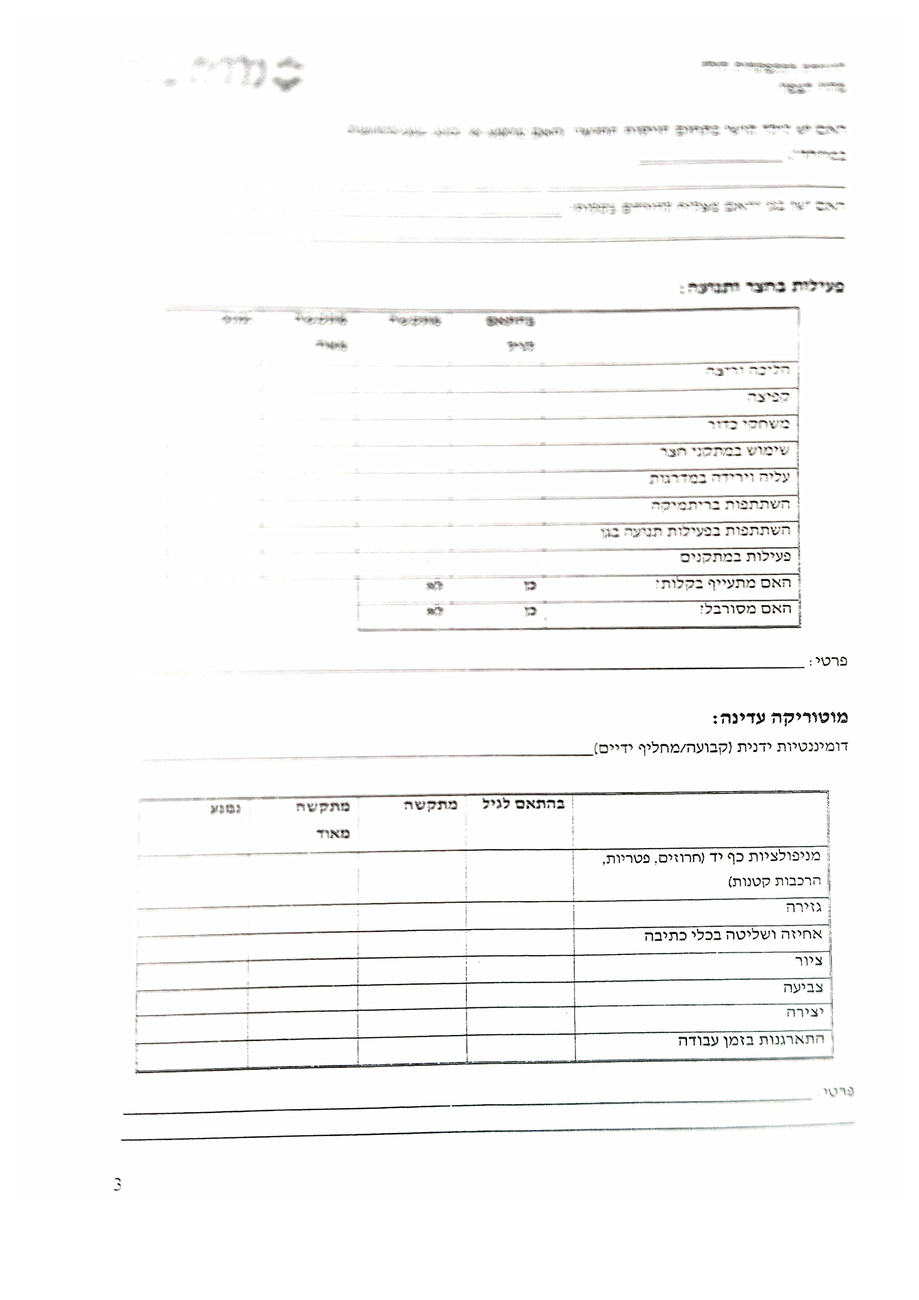
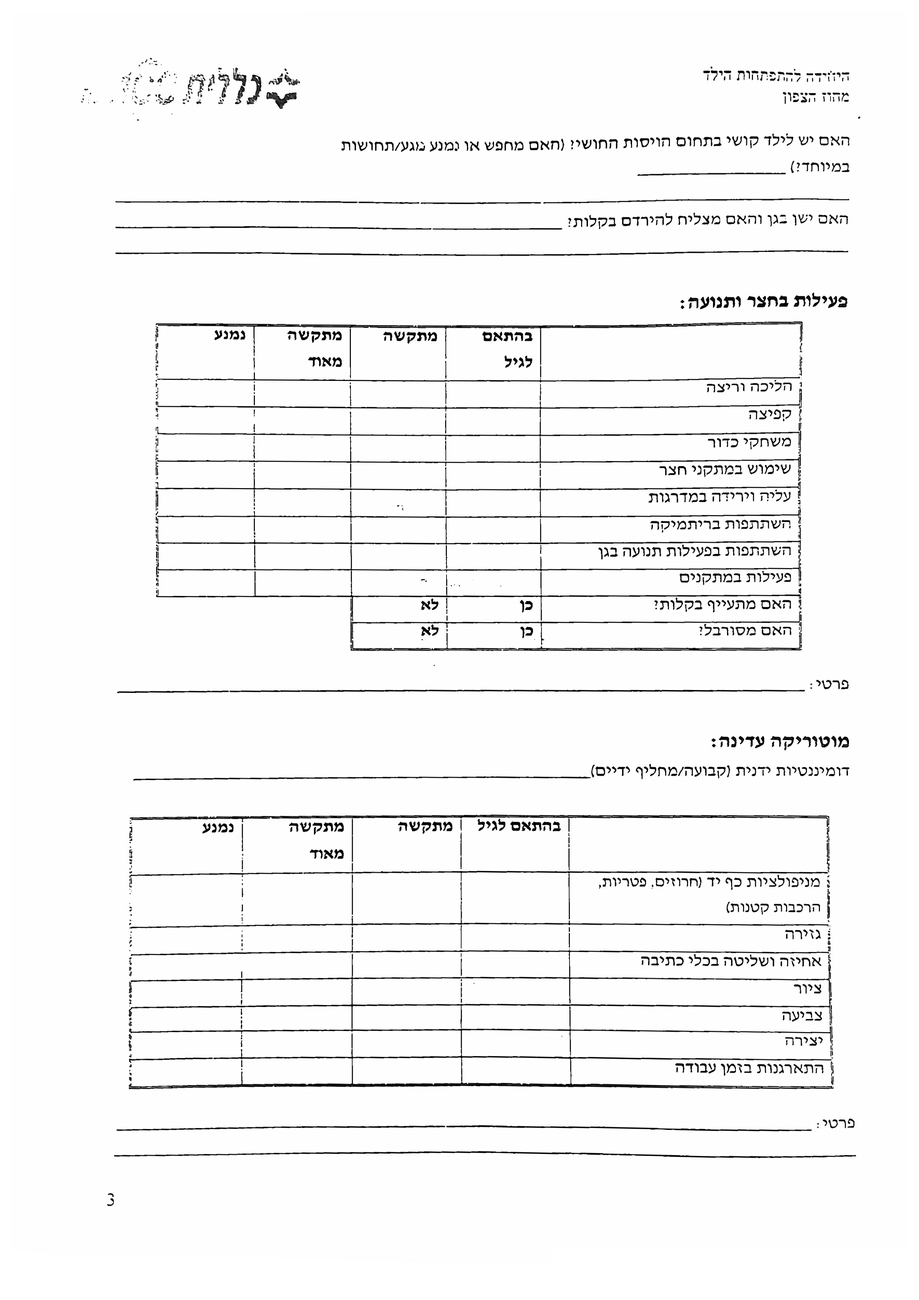
Forms site: full 8-page questionnaire on the new clean scan
Uses the complete scan (cleaned, straightened, fitted to A4) as the
printed base for all pages, confirms the wording of pages 3-4, and adds
pages 5-8: social/communication, play, attention, summary, and the
attention questionnaire (Conners short form and DSM-IV criteria).

Claude-Session: https://claude.ai/code/session_01Cq1dSntuovTrU3x9FfwCud

diff --git a/tfasim/index.html b/tfasim/index.html
@@ -207,49 +207,76 @@ const FORMS = [{
     'על מנת לקבל התרשמות מלאה על הילד אשר הופנה אלינו להערכה, ולשם קביעת החלטות טיפוליות, חשובה לנו מאוד חוות דעתך. נודה לך על מילוי השאלון תוך כדי תאור תפקודו של הילד בכל סעיף.',
     'אנא מלאי את השאלון במלואו, יש למלא את הטפסים בכתב גדול וברור ובעט בלבד.',
     'במידה והשאלה אינה רלוונטית לגיל הילד, אנא צייני זאת.'],
-  partial: 'הוזנו עמודים 1–4. בקובץ שיורד, עמודים 1–2 הם דף משוחזר נקי, ועמודים 3–4 עדיין הסריקה המקורית. בעמודים 3–4, טקסט שמסומן בצהוב לא היה קריא ושוחזר בהשערה – צריך לאמת אותו מול הדף המקורי. עמודים 5 ואילך יתווספו כשיתקבלו.',
+  partial: 'הטופס מלא: 8 עמודים, כולל שאלון הקשב והריכוז (עמודים 7–8). החלקים "לשימוש משרד" בעמודים 7–8 נשארים ריקים.',
   /* מיקום כל שדה על דפי הסריקה, באחוזים מגודל העמוד: [עמוד, x, y, רוחב, גובה, אפשרויות].
      lh = גובה שורה (לשדה רב-שורתי), indent = הזחת השורה הראשונה (כשהתשובה מתחילה אחרי השאלה). */
   scan: {
-    dir: 'scans/clalit-ganenet-3-6/', pages: ['p1.png','p2.png','p3.jpg','p4.jpg'],   // 1–2 משוחזרים נקי, 3–4 עדיין סריקה
+    dir: 'scans/clalit-ganenet-3-6/', pages: ['p1.jpg','p2.jpg','p3.jpg','p4.jpg','p5.jpg','p6.jpg','p7.jpg','p8.jpg'],
+    // שדות שמודפסים שוב בחלק "קשב וריכוז" (עמודים 7–8) ונלקחים מהפרטים שבעמוד 1
+    alias: {c_name:'childName', c_tz:'childTz', c_birth:'birth', c_date:'fillDate'},
     f: {
-      childName:[1,62.8,32.8,15,2], age:[1,51.5,32.8,6.6,2], fillDate:[1,15.6,32.8,17.3,2],
-      childTz:[1,52,34.9,29.5,2], birth:[1,15.6,34.9,24,2],
-      teacher:[1,51.8,41.2,24,2], phone:[1,11.5,41.2,33.5,2],
-      place:[1,51.8,43.3,20.5,2], address:[1,11.5,43.3,19,2],
-      kind:[1,51.8,45.4,14,2], edu:[1,11.5,45.4,21,2],
-      ages:[1,51.8,47.4,23.3,2], count:[1,11.5,47.4,21.5,2],
-      known:[1,51.8,49.5,20.5,2], hours:[1,11.5,49.5,21.3,2],
-      aide:[1,11.5,51.6,47.5,2],
-      needsHelp:[1,16.7,57,37.3,2],
-      others:[1,16.2,68.95,75.5,8.2,{lh:2.05}],
-      attend:[1,16.5,78.9,51.8,2],
-      looks:[1,16.5,82.85,75,8.2,{lh:2.05}],
-      moodOther:[2,11.7,22.85,79.6,3.9,{lh:1.93,indent:12.8}],
-      discipline:[2,11.7,26.95,79.6,3.9,{lh:1.93,indent:23}],
-      indepMore:[2,11.5,45.7,75,2],
-      eat1:[2,14.2,52.55,77.2,3.9,{lh:1.93,indent:51}],
-      eat2:[2,14.2,56.5,50.8,2], eat3:[2,14.2,58.5,65.2,2], eatMore:[2,14.2,60.6,72.5,2],
-      p3q1:[3,15,12.3,76.5,2.1], p3q2:[3,15,16.2,76.5,2.1],
-      grossMore:[3,16,49.4,71.5,2], hand:[3,15,56.1,50,2],
-      fineMore:[3,13,83.2,74.5,4,{lh:2}],
-      langMore:[4,13,60.6,75,4.3,{lh:2.15}],
-      artic_n0:[4,63,72.6,26.5,2.9,{small:true}], artic_n1:[4,15.5,76,22.5,3.2,{small:true}],
-      artic_n2:[4,15.5,79.5,22.5,1.9,{small:true}], artic_n3:[4,15.5,81.6,22.5,1.9,{small:true}],
-      articMore:[4,13.5,84.9,74.5,2],
+      childName:[1,64.2,34.4,10.8,1.9], age:[1,53.4,34.4,6.3,1.9], fillDate:[1,18.2,34.4,17.8,1.9],
+      childTz:[1,53.4,36.5,28.8,1.9], birth:[1,18.2,36.5,23.3,1.9],
+      teacher:[1,53.6,42.7,22.4,1.9], phone:[1,14,42.7,32.7,1.9],
+      place:[1,53.6,44.8,20.8,1.9], address:[1,14,44.8,19.6,1.9],
+      kind:[1,53.6,46.8,13.9,1.9], edu:[1,14,46.8,21.4,1.9],
+      ages:[1,53.6,48.9,23.6,1.9], count:[1,14,48.9,21.3,1.9],
+      known:[1,53.6,50.9,20.8,1.9], hours:[1,14,50.9,21.8,1.9],
+      aide:[1,14,52.9,46,1.9],
+      needsHelp:[1,17.5,58.05,45.5,1.95],
+      others:[1,17.5,69.75,75,8,{lh:2.0}],
+      attend:[1,19.5,79.55,50.3,1.95],
+      looks:[1,19.5,83.55,73.5,5.85,{lh:1.95}],
+      moodOther:[2,11.7,23.65,80,4.06,{lh:2.03,indent:12.3}],
+      discipline:[2,11.7,27.7,80,4,{lh:2.0,indent:22.3}],
+      indepMore:[2,11.7,46.85,75,1.95],
+      eat1:[2,14.2,53.5,77.5,4,{lh:2.0,indent:51}],
+      eat2:[2,14.2,57.65,50.8,1.95], eat3:[2,14.2,59.65,65.3,1.95], eatMore:[2,14.2,61.65,72.5,1.95],
+      p3q1:[3,13.5,13.45,78.5,1.95], p3q2:[3,13.5,15.55,79,3.96,{lh:1.98,indent:31.5}],
+      grossMore:[3,13.5,51.15,74,1.95], hand:[3,15,57.85,48.5,1.95],
+      fineMore:[3,13.5,84.85,74.5,3.96,{lh:1.98}],
+      langMore:[4,8.5,62.4,79,4.8,{lh:2.4}],
+      artic_n0:[4,61,75.9,29,3.1,{small:true}], artic_n1:[4,9,79.7,24.3,3.8,{small:true}],
+      artic_n2:[4,9,83.9,24.3,2.1,{small:true}], artic_n3:[4,9,86.2,24.3,2.3,{small:true}],
+      articMore:[4,9,90.3,79,1.95],
+      socialMore:[5,12.5,42.9,75,6.4,{lh:2.13}],
+      playStyle:[5,12.2,73.2,80.5,6.5,{lh:2.17,indent:45.8}],
+      playRep:[5,11.5,79.75,81,4.06,{lh:2.03,indent:39.5}],
+      attn_n0:[6,10,20.4,22.8,2,{small:true}], attn_n1:[6,10,22.7,22.8,2,{small:true}], attn_n2:[6,10,25,22.8,2,{small:true}],
+      attn_n3:[6,10,27.3,22.8,2,{small:true}], attn_n4:[6,10,29.5,22.8,2,{small:true}], attn_n5:[6,10,31.9,22.8,2,{small:true}],
+      attnMore:[6,10.3,35.75,79,1.95],
+      summary:[6,10,46.98,84.5,21.1,{lh:2.11}],
+      remarks:[6,12.3,76.55,75.5,1.95],
+      c_date:[7,18,11.5,15.5,1.9], c_name:[7,67,19.5,16.5,1.9], c_tz:[7,48.5,19.5,14.7,1.9], c_birth:[7,30.5,19.5,11,1.9], c_class:[7,15.5,19.5,9.6,1.9],
+      c_filler:[8,40,64.4,37.5,1.9],
     },
     picks: {
-      fields: {'רופא התפתחותי':[1, 80.14, 63.65, 12.06, 1.86],'פיזיותרפיה':[1, 70.51, 63.65, 8.79, 1.86],'קלינאות-תקשורת':[1, 55.11, 63.65, 13.19, 1.86],'ריפוי-בעיסוק':[1, 42.84, 63.65, 10.26, 1.86],'פסיכולוגיה':[1, 32.45, 63.65, 8.85, 1.86],'אחר':[1, 25.59, 63.65, 4.31, 1.86]},
-      mood: {'עליז ושמח':[2, 83.14, 17.29, 9.06, 1.99],'מצב רוח נוח':[2, 73.32, 17.29, 10.33, 1.99],'מגיע בשמחה לגן':[2, 60.51, 17.29, 13.33, 1.99],'נפרד בקלות':[2, 51.08, 17.29, 9.95, 1.99],'משתף פעולה':[2, 40.88, 17.29, 10.71, 1.99],'שינויים קיצוניים במצב הרוח':[2, 69.78, 19.29, 22.42, 1.99],'עצוב או מדוכדך':[2, 57.48, 19.29, 12.81, 1.99],'מתקשה להיפרד בבוקר':[2, 40.04, 19.29, 17.96, 1.99],'מרבה לבכות':[2, 30.11, 19.29, 10.44, 1.99],'מוצץ אצבע או מוצץ':[2, 76.68, 21.29, 15.52, 1.99],'עקשן':[2, 71.9, 21.29, 5.3, 1.99],'נמצא בחוסר שקט':[2, 58.07, 21.29, 14.35, 1.99],'מגלה פחדים וחרדות':[2, 42.28, 21.29, 16.3, 1.99],'ביישן':[2, 37.36, 21.29, 5.44, 1.99]},
+      fields: {'רופא התפתחותי':[1,80.4,64.4,12.7,1.95],'פיזיותרפיה':[1,70.5,64.4,9.2,1.95],'קלינאות-תקשורת':[1,55.3,64.4,14.1,1.95],
+        'ריפוי-בעיסוק':[1,43.4,64.4,10.8,1.95],'פסיכולוגיה':[1,33.1,64.4,9.2,1.95],'אחר':[1,27.9,64.4,4.1,1.95]},
+      mood: {'עליז ושמח':[2,84.8,18.1,7.2,2],'מצב רוח נוח':[2,73.4,18.1,11.3,2],'מגיע בשמחה לגן':[2,60.6,18.1,12.8,2],'נפרד בקלות':[2,49.4,18.1,11.2,2],'משתף פעולה':[2,39.5,18.1,9.9,2],
+        'שינויים קיצוניים במצב הרוח':[2,73.6,20.15,18.3,2],'עצוב או מדוכדך':[2,58.9,20.15,14.2,2],'מתקשה להיפרד בבוקר':[2,40,20.15,17.6,2],'מרבה לבכות':[2,28,20.15,11.5,2],
+        'מוצץ אצבע או מוצץ':[2,75.3,22.1,16.6,2],'עקשן':[2,69.9,22.1,5.3,2],'נמצא בחוסר שקט':[2,56.4,22.1,13.5,2],'מגלה פחדים וחרדות':[2,41.2,22.1,15.2,2],'ביישן':[2,35.8,22.1,5.4,2]},
+      nextYear: {'גן':[6,54.5,72.9,2.3,2],'גן משולב':[6,46.6,72.9,8.2,2],'גן טיפולי':[6,38.8,72.9,8,2],'אחר':[6,34.2,72.9,4.6,2]},
+      c_repeat: {'כן':[7,84.9,21.2,2.6,2],'לא':[7,82.5,21.2,2.6,2]},
+      c_meds: {'כן':[7,49,21.2,2.7,2],'לא':[7,46.1,21.2,2.9,2]},
+      c_who: {'אם':[7,27.8,21.2,3.1,2],'אב':[7,24.9,21.2,2.6,2],'מורה':[7,21,21.2,3.6,2],'אחר':[7,16.2,21.2,4.4,2]},
     },
     grids: {
-      indep: {p:2, cols:[45.8,34,22.5], rows:[[38.2,40.3],[40.3,42.3],[42.3,44.5]]},
-      sense: {p:2, cols:[49.5,37.6,25.4], rows:[0,1,2,3,4,5,6,7].map(i => [70.5+2.1*i, 72.6+2.1*i])},
-      gross: {p:3, cols:[55.6,45,35,25.7], ynCols:[58.3,47.4], rows:[0,1,2,3,4,5,6,7,8,9].map(i => [27.9+2.04*i, 29.94+2.04*i])},
-      fine:  {p:3, cols:[56.7,44.9,33,20.9], rows:[[65.3,69.4],[69.4,71.5],[71.5,73.6],[73.6,75.7],[75.7,77.6],[77.6,79.7],[79.7,81.9]]},
-      lang:  {p:4, cols:[49.4,37.2,25], rows:[[16.3,18.4],[18.4,20.4],[20.4,22.3],[22.3,24.5],[24.5,26.6],[26.6,30.7],[30.7,34.8],[34.8,39],
-        [39,41.1],[41.1,45.2],[45.2,47.2],[47.2,51.1],[51.1,55],[55,57.1],[57.1,59.3]]},
-      artic: {p:4, cols:[56.3,44.6], rows:[[70.2,75.7],[75.7,79.4],[79.4,81.5],[81.5,83.6]]},
+      indep: {p:2, cols:[46.2,34.5,22.7], rows:[[39.3,41.3],[41.3,43.4],[43.4,45.6]]},
+      sense: {p:2, cols:[49.4,37.6,25.8], rows:[[71.5,73.5],[73.5,75.7],[75.7,77.8],[77.8,79.9],[79.9,81.9],[81.9,83.9],[83.9,86],[86,88.2]]},
+      gross: {p:3, cols:[53.65,43.3,32.9,22.5], ynCols:[57.2,46.9],
+        rows:[[29.2,31.3],[31.3,33.4],[33.4,35.5],[35.5,37.6],[37.6,39.7],[39.7,41.7],[41.7,43.8],[43.8,45.9],[45.9,47.9],[47.9,50]]},
+      fine:  {p:3, cols:[56.05,44.15,32.25,20.2], rows:[[67.1,71.2],[71.2,73.3],[73.3,75.3],[75.3,77.4],[77.4,79.3],[79.3,81.4],[81.4,83.6]]},
+      lang:  {p:4, cols:[47.35,34.95,22.6], rows:[[16.3,18.5],[18.5,20.6],[20.6,22.5],[22.5,24.6],[24.6,26.8],[26.8,30.9],[30.9,35.1],[35.1,39.5],
+        [39.5,41.7],[41.7,45.9],[45.9,48.1],[48.1,52.2],[52.2,56.4],[56.4,58.6],[58.6,60.9]]},
+      artic: {p:4, cols:[53.25,40.3], rows:[[73.1,79.3],[79.3,83.8],[83.8,86.1],[86.1,88.6]]},
+      social:{p:5, cols:[45.7,32.8,19.9], rows:[[15.9,18.1],[18.1,20.1],[20.1,22.1],[22.1,24.2],[24.2,26.4],[26.4,28.5],[28.5,30.6],[30.6,32.7],[32.7,34.9],[34.9,37],[37,39.2],[39.2,41.5]]},
+      play:  {p:5, cols:[55,43.05,31,18.9], rows:[[59.1,61.3],[61.3,63.4],[63.4,65.6],[65.6,67.7],[67.7,69.8],[69.8,71.9]]},
+      attn:  {p:6, cols:[60,49.2,38.5], rows:[[20.2,22.5],[22.5,24.8],[24.8,27.1],[27.1,29.3],[29.3,31.7],[31.7,34.1]]},
+      conners:{p:7, cols:[39.95,33.75,27.6,21.6], rows:[[29.1,30.8],[30.8,32.5],[32.5,34.2],[34.2,35.9],[35.9,37.7],[37.7,39.3],[39.3,42.6],[42.6,44.2],[44.2,45.9],[45.9,47.5]]},
+      dsmA:  {p:7, cols:[42.15,35.9,29.55,23.7], rows:[[58.6,63.4],[63.4,65.2],[65.2,66.9],[66.9,70.3],[70.3,73.7],[73.7,77],[77,80.3],[80.3,85.1],[85.1,88.5]]},
+      dsmH:  {p:8, cols:[43.35,36.95,30.35,24.15], rows:[[19.6,22.8],[22.8,24.4],[24.4,26.1],[26.1,27.7],[27.7,29.4],[29.4,31.1]]},
+      dsmI:  {p:8, cols:[43.35,36.95,30.35,24.15], rows:[[39.2,40.8],[40.8,42.5],[42.5,44.1]]},
     },
   },
   blocks: [
@@ -272,7 +299,7 @@ const FORMS = [{
     { t:'text', id:'others', label:'האם ידוע לך על גורמים טיפוליים נוספים מעורבים: (פסיכותרפיה, רווחה וכו\')', rows:2 },
     { t:'head', label:'התרשמות כללית:' },
     { t:'line', id:'attend', label:'מבקר סדיר במסגרת: כן/לא פרט' },
-    { t:'text', id:'looks', label:'הופעה חיצונית (כולל לבוש, ניקיון, אפיונים מיוחדים)', rows:4 },
+    { t:'text', id:'looks', label:'הופעה חיצונית (כולל לבוש, ניקיון, אפיונים מיוחדים)', rows:3 },
 
     { t:'page', n:2 },
     { t:'note', text:'בסעיפים הבאים, אנא תארי את תפקודו/ה של הילד/ה במסגרת. אנא סמני את ההתנהגות המתאימה ופרטי בהתאם לצורך' },
@@ -296,10 +323,10 @@ const FORMS = [{
       rows:['משחק בחול','משחק בבצק/פלסטלינה','צבעי ידיים','דבק','מגע עם מים','מגע עם ילדים ומבוגרים','עמידה בתור עם ילדים נוספים','פעילויות עם רעש (מסיבות/חגים)'] },
 
     { t:'page', n:3 },
-    { t:'text', id:'p3q1', label:'[שאלה שאינה קריאה בסריקה – עמוד 3, שורה ראשונה]', unsure:true, rows:2 },
-    { t:'text', id:'p3q2', label:'[שאלה שאינה קריאה בסריקה – עמוד 3, שורה שנייה]', unsure:true, rows:2 },
+    { t:'text', id:'p3q1', label:'האם יש לילד קושי בתחום הויסות החושי? (האם מחפש או נמנע מגע/תחושות במיוחד?)', rows:1 },
+    { t:'text', id:'p3q2', label:'האם ישן בגן והאם מצליח להירדם בקלות?', rows:2 },
     { t:'head', label:'פעילות בחצר ותנועה:' },
-    { t:'grid', id:'gross', cols:['בהתאם לגיל','מתקשה','מתקשה מאוד','נמנע'], unsureCols:true,
+    { t:'grid', id:'gross', cols:['בהתאם לגיל','מתקשה','מתקשה מאוד','נמנע'],
       rows:['הליכה וריצה','קפיצה','משחקי כדור','שימוש במתקני חצר','עליה וירידה במדרגות','השתתפות בריתמיקה','השתתפות בפעילות תנועה בגן','פעילות במתקנים',
         {label:'האם מתעייף בקלות?', yn:true},{label:'האם מסורבל?', yn:true}] },
     { t:'text', id:'grossMore', label:'פרטי:', rows:1 },
@@ -310,11 +337,9 @@ const FORMS = [{
     { t:'text', id:'fineMore', label:'פרטי:', rows:2 },
 
     { t:'page', n:4 },
-    { t:'head', label:'שפה (הבנה והבעה):', unsure:true },
+    { t:'head', label:'שפה (הבנה והבעה):' },
     { t:'grid', id:'lang', cols:['בדרך כלל','לפעמים','לעיתים רחוקות'],
-      rows:[{label:'מבין את הוראות הגננת/הילדים בגן', unsure:true},{label:'מבין הוראות', unsure:true},
-        {label:'מכיר וזוכר הוראות, ימי שבוע, שירים', unsure:true},{label:'מבין ועונה לעניין לשאלות שנשאל', unsure:true},
-        {label:'מסוגל לשיחה משמעותית', unsure:true},
+      rows:['מבין את התכנים הנלמדים בגן','מבין הוראות','זוכר רצף הוראות, ימי שבוע, שירים','מבין ועונה לעניין לשאלות שנשאל','מסוגל להסיק מסקנות',
         'מצליח במשימות של מודעות פונולוגית (חריזה, צליל פותח)','מתבטא בעזרת אוצר מילים רחב (שמות עצם, פעלים, תארים)',
         'מטה פעלים באופן תקין (עבר, הווה, עתיד)','משתמש במילות יחס (מעל, בתוך)','משתמש בשמות גוף מתאימים (אני, הוא, אתם)',
         'מדבר במשפטים בני 3 מילים או יותר','משתמש במשפטים מחוברים ומורכבים (ו..., בגלל ש..., כי...)',
@@ -322,9 +347,69 @@ const FORMS = [{
     { t:'text', id:'langMore', label:'פרטי:', rows:2 },
     { t:'head', label:'היגוי:' },
     { t:'grid', id:'artic', cols:['כן','לא'], notes:'הערות',
-      rows:[{label:'האם קיימים שיבושי היגוי?', noteHint:'אם כן, באילו מהצלילים:', unsure:true},
+      rows:[{label:'האם קיימים שיבושי היגוי?', noteHint:'אם כן, באילו מהצלילים הבאים: ב, ג, ד, ו, ז, ח, ט, כ, ל, מ, נ, ס, פ, צ, ק, ר, ש, ת'},
         'האם קיימים חילופי אותיות במילים (מחשב=משחב)','האם קיים חוסר שטף? (גמגום)','האם קיימת צרידות'] },
     { t:'text', id:'articMore', label:'פרטי:', rows:1 },
+
+    { t:'page', n:5 },
+    { t:'head', label:'תפקוד חברתי ותקשורתי:' },
+    { t:'grid', id:'social', cols:['בדרך כלל','לפעמים','לעיתים רחוקות'],
+      rows:['יוזם קשר עם אחרים','מסוגל ליזום ולהוביל משחק','משתתף במשחק כשמזמינים אותו','משתתף בפעילות חברתית (משחקים, מסיבות)','מקבל הצלחה וכישלון',
+        'מגיב באלימות פיזית או מילולית','מוותר ומתפשר','מבקש עזרה כשזקוק לה','מסוגל להמתין לתורו','מתקשה בפירוש רמזים וסיטואציות חברתיות',
+        'משתמש בקשר עין והבעות פנים','מלווה את הדיבור בג\'סטות (מחוות ידיים)'] },
+    { t:'text', id:'socialMore', label:'פרטי:', rows:3 },
+    { t:'head', label:'משחק:' },
+    { t:'grid', id:'play', cols:['בהתאם לגיל','מתקשה','מתקשה מאוד','נמנע'],
+      rows:['משחקי בנייה והרכבה','משחקי קופסא','פאזלים','משחקי דמיון','משחקי חברה (תופסת, מחבואים)','משחקי תורות עם ילד נוסף'] },
+    { t:'text', id:'playStyle', label:'תארי את סגנון המשחק, יכולת החקירה והיצירתיות של הילד', rows:3 },
+    { t:'text', id:'playRep', label:'האם ניכרת חזרתיות במשחק, נוקשות או חוסר מגוון?', rows:2 },
+
+    { t:'page', n:6 },
+    { t:'head', label:'תפקודי קשב:' },
+    { t:'grid', id:'attn', cols:['בדרך כלל','לפעמים','לעיתים רחוקות'],
+      notes:'באילו פעילויות/סיטואציות ההתנהגות באה לידי ביטוי (חצר, מפגש קבוצתי, עבודה יחידנית וכו\')',
+      rows:['מרוכז','אימפולסיבי','מוסח','קשוב להוראות','מתמיד במשימות','תנועתי'] },
+    { t:'text', id:'attnMore', label:'פרטי:', rows:1 },
+    { t:'head', label:'סיכום והמלצות:' },
+    { t:'note', text:'אנא תארי את חזקותיו וקשייו העיקריים של הילד. היכרותך עימו ותובנותיך לגבי תפקודו חשובים לנו לקבלת תמונה מלאה ומדויקת. מילוי חלק זה חיוני עבורנו.' },
+    { t:'text', id:'summary', label:'', rows:10 },
+    { t:'pick', id:'nextYear', plain:true, label:'איזה מסגרת תתאים לדעתך לילד בשנה הבאה?', options:['גן','גן משולב','גן טיפולי','אחר'] },
+    { t:'line', id:'remarks', label:'הערות:' },
+    { t:'note', text:'תודה על שיתוף הפעולה · צוות התפתחות הילד · שירותי בריאות כללית – מחוז צפון' },
+
+    { t:'page', n:7 },
+    { t:'head', label:'שאלון להערכת קשב וריכוז' },
+    { t:'note', text:'שם הילד, ת.ז., תאריך הלידה והתאריך נלקחים אוטומטית מעמוד 1.' , screenOnly:true },
+    { t:'line', id:'c_class', label:'כיתה:' },
+    { t:'pick', id:'c_repeat', plain:true, label:'חוזר:', options:['כן','לא'] },
+    { t:'pick', id:'c_meds', plain:true, label:'מקבל טיפול תרופתי:', options:['כן','לא'] },
+    { t:'pick', id:'c_who', plain:true, label:'ממלא השאלון:', options:['אם','אב','מורה','אחר'] },
+    { t:'head', label:'שאלון קונרס מקוצר' },
+    { t:'grid', id:'conners', cols:['בכלל לא','במקצת','הרבה','הרבה מאוד'],
+      rows:['1. חסר מנוחה. פעיל מאוד','2. מבצע פעולות לעיתים מבלי לחשוב על התוצאות (פזיז)','3. מפריע לילדים אחרים',
+        '4. תחום קשב קצר (ולכן אינו מצליח לסיים דברים שהתחיל)','5. מתנועע במקום כל הזמן','6. מפוזר. ניתן בקלות להסיח את דעתו',
+        '7. דורש סיפוק מיידי, מתוסכל בקלות ומתייאש אם לא מצליח לבצע משימה','8. מתרגש בקלות. בוכה לעיתים קרובות ובקלות',
+        '9. מצב רוחו משתנה באופן מהיר וקיצוני','10. התפרצויות זעם. התנהגות בלתי ניתנת לחיזוי'] },
+    { t:'head', label:'קריטריונים של חוסר קשב וריכוז ע"פ DSM-IV' },
+    { t:'grid', id:'dsmA', cols:['בכלל לא','במקצת','הרבה','הרבה מאוד'],
+      rows:['1. לעיתים קרובות לא מקדיש תשומת לב לפרטים הקשורים לשיעורים או לפעילויות אחרות, עושה שגיאות "טפשיות" בשיעורים או בפעילויות אחרות בגלל פיזור דעת',
+        '2. מתקשה להתמיד במשימות או משחקים (מפסיק באמצע)','3. לעיתים קרובות נראה כי לא מקשיב למה שאומרים לו',
+        '4. מתקשה למלא הוראות ולסיים שיעורים ומטלות אחרות (אם כי מבין את ההוראות שנדרשות ממנו)',
+        '5. מתקשה לארגן משימות (הכנת שיעורים, ארגון חומר לימודי במסגרת עבודות חקר וכו\')',
+        '6. לעיתים קרובות מסרב לבצע משימות הדורשות הקשבה והתמדה (כגון שיעורים או עזרה בבית)',
+        '7. לעיתים קרובות מאבד חפצים הדרושים לפעילות יום-יומית (צעצועים, כלי כתיבה, ספרים וכד\')',
+        '8. גירויים חיצוניים (רעשים, מוסיקה, פטפוט של חברים, טלוויזיה) מסיחים בקלות את דעתו ולכן מפסיק להיות מרוכז במטלות אחרות',
+        '9. מבולבל ושכחן בפעילויות יום-יומיות (שוכח למסור הודעות, שוכח איפה הניח דברים, מאבד חפצים וכו\')'] },
+
+    { t:'page', n:8 },
+    { t:'head', label:'קריטריונים של פעילות יתר' },
+    { t:'grid', id:'dsmH', cols:['בכלל לא','במקצת','הרבה','הרבה מאוד'],
+      rows:['1. מגלה סימני אי שקט. זז הרבה במקום, קשה לו לשבת במקום אחד. מרבה להתעסק בידים או ברגליים','2. לעיתים קרובות קם מהמקום, עוזב את הכיתה',
+        '3. מרבה בריצה ובטיפוס (על עצים, מקומות גבוהים)','4. מתקשה לשחק בשקט','5. מרבה להתרוצץ, להסתובב, לטפס על חפצים','6. מרבה לדבר. פטפטן'] },
+    { t:'head', label:'קריטריונים של אימפולסיביות' },
+    { t:'grid', id:'dsmI', cols:['בכלל לא','במקצת','הרבה','הרבה מאוד'],
+      rows:['7. עונה לשאלות לפני שסיימו לנסח אותן ("קופץ בראש")','8. מתקשה לחכות לתורו במשחקים או בפעילויות חברה','9. לעיתים קרובות מטריד או מפריע לילדים אחרים'] },
+    { t:'line', id:'c_filler', label:'שם ממלא השאלון:', profile:'teacher' },
   ]
 }];
 
@@ -426,7 +511,7 @@ function blockHtml(b, vals){
   }
   const lab = (x, t) => `<span class="${x.unsure ? 'unsure' : ''}"${x.unsure ? ' title="לא קריא בסריקה – לאמת מול המקור"' : ''}>${esc(t ?? x.label)}</span>`;
   if(b.t === 'head') return `<div class="sec">${lab(b)}</div>`;
-  if(b.t === 'note') return `<p class="q">${lab(b, b.text)}</p>`;
+  if(b.t === 'note') return `<p class="q ${b.screenOnly ? 'todo' : ''}">${lab(b, b.text)}</p>`;
   if(b.t === 'page') return `<div class="pagebreak"><span>עמוד ${b.n}</span></div>`;
   if(b.t === 'grid'){
     const val = vals[b.id] || {};
@@ -633,8 +718,9 @@ function buildScan(){
   const box = (b, cls, html, extra='') => out[b[0]-1].push(
     `<div class="${cls}" style="left:${b[1]}%;top:${b[2]}%;width:${b[3]}%;height:${b[4]}%;${extra}">${html}</div>`);
   const types = Object.fromEntries(fieldsOf(formById(e.formId)).map(f => [f.id, f.type]));
+  for(const [k, src] of Object.entries(sc.alias || {})) types[k] = types[src];
   for(const [id, b] of Object.entries(sc.f)){
-    let v = e.values[id]; if(!v) continue;
+    let v = e.values[(sc.alias || {})[id] || id]; if(!v) continue;
     if(types[id] === 'date') v = heDate(v);
     const o = b[5] || {};
     if(o.lh) box(b, 'sv multi', esc(v), `line-height:${o.lh*2.97}mm;${o.indent ? `text-indent:${o.indent*2.1}mm;` : ''}`);

diff --git a/README.md b/README.md
@@ -78,7 +78,7 @@ ADMIN_CODE=1234 npm start
 
 - ממלאים ישירות על דף שנראה כמו הטופס המקורי, ושומרים כ־PDF או מדפיסים.
 - **הקובץ שיורד הוא סריקת המקור:** בהדפסה/שמירה כ־PDF כל עמוד הוא תמונת הסריקה של הטופס (`tfasim/scans/<טופס>/pN.jpg`), והתשובות מונחות עליה לפי המיקומים שב־`scan` בהגדרת הטופס (באחוזים מגודל העמוד). אם מחליפים סריקה, היא חייבת להיות מיושרת בדיוק כמו הקודמת, אחרת צריך לעדכן את המיקומים. בלי תמונות הסריקה מודפסת הגרסה המוקלדת.
-- **דפים משוחזרים:** כשהסריקה לא מספיק חדה, בונים את העמוד מחדש כדף נקי (פונט דוד, אותו מבנה ואותו נוסח) בעזרת `tfasim/tools/gen-pages/` (`npm i playwright @fontsource/david-libre`, ואז `node render.js 1 2`). הסקריפט מפיק תמונת עמוד ואת מיקומי העיגולים (`boxes.json`).
+- **הכנת סריקה:** הסריקה מנוקה, מיושרת ומותאמת ל־A4 לפני שהיא נכנסת ל־`scans/`. אם אין סריקה טובה, אפשר לבנות עמוד מחדש כדף נקי בעזרת `tfasim/tools/gen-pages/`.
 - **פרטיות:** הכול נשמר רק בדפדפן של המכשיר (`localStorage`). אין שרת ואין שליחה של נתונים. טופס נמחק אוטומטית אחרי 90 יום מהעריכה האחרונה (`KEEP_DAYS`).
 - פרטי הגן הקבועים ורשימת הילדים נזכרים וממולאים אוטומטית.
 - הוספת טופס: מוסיפים הגדרה למערך `FORMS` בראש הסקריפט.
